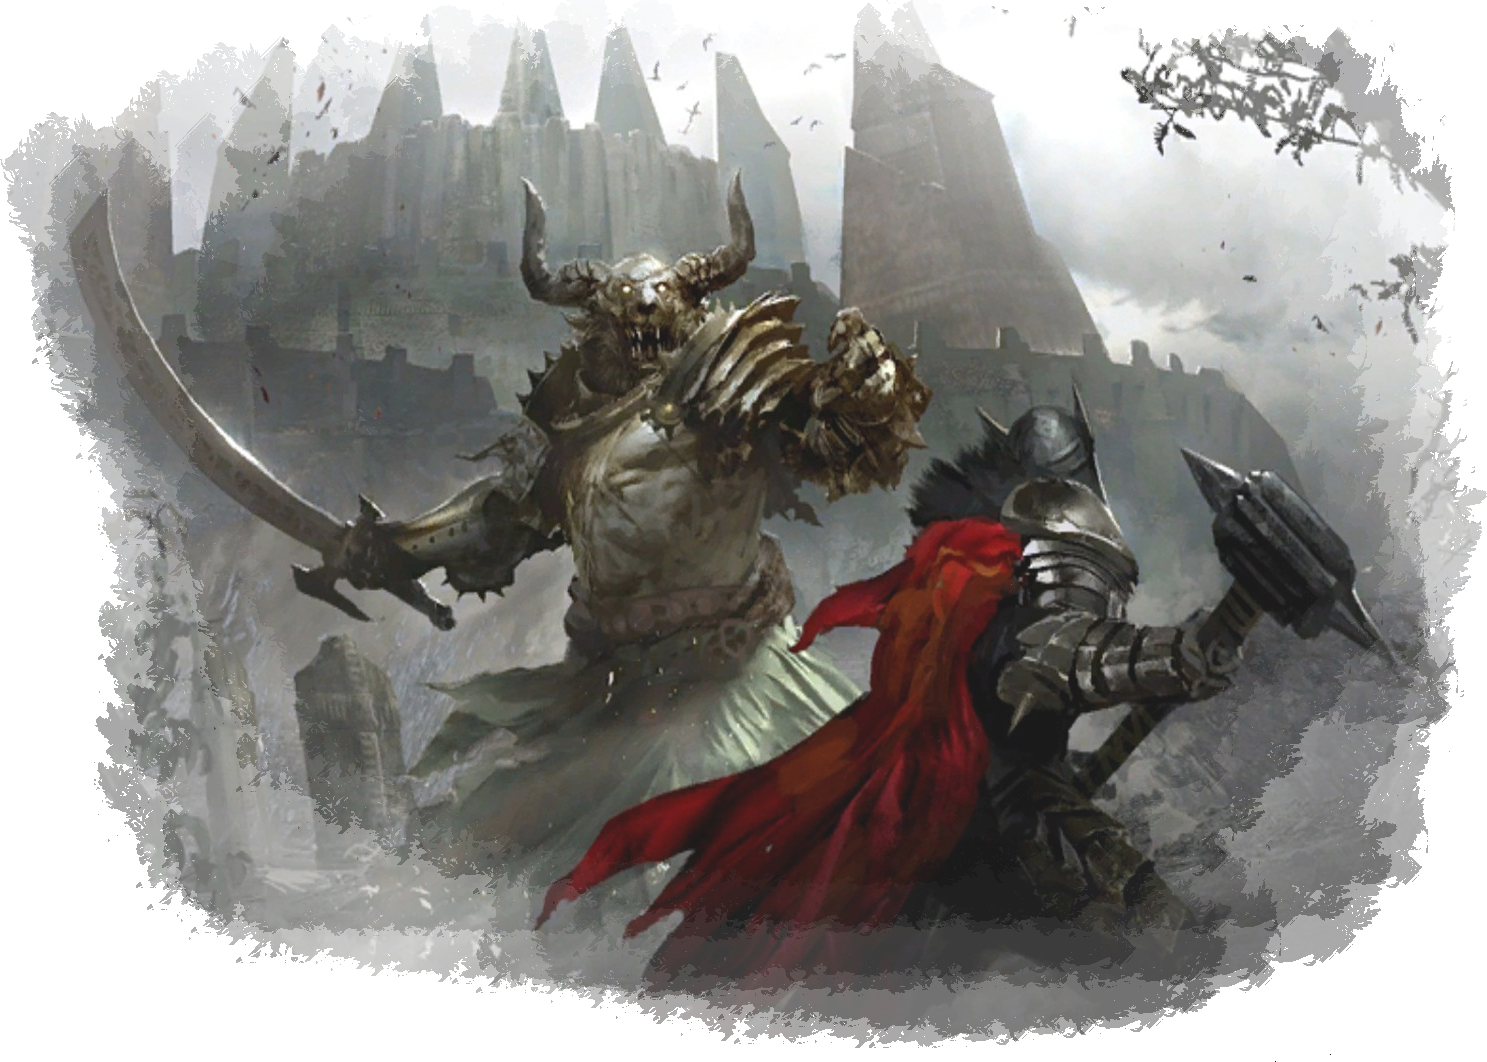
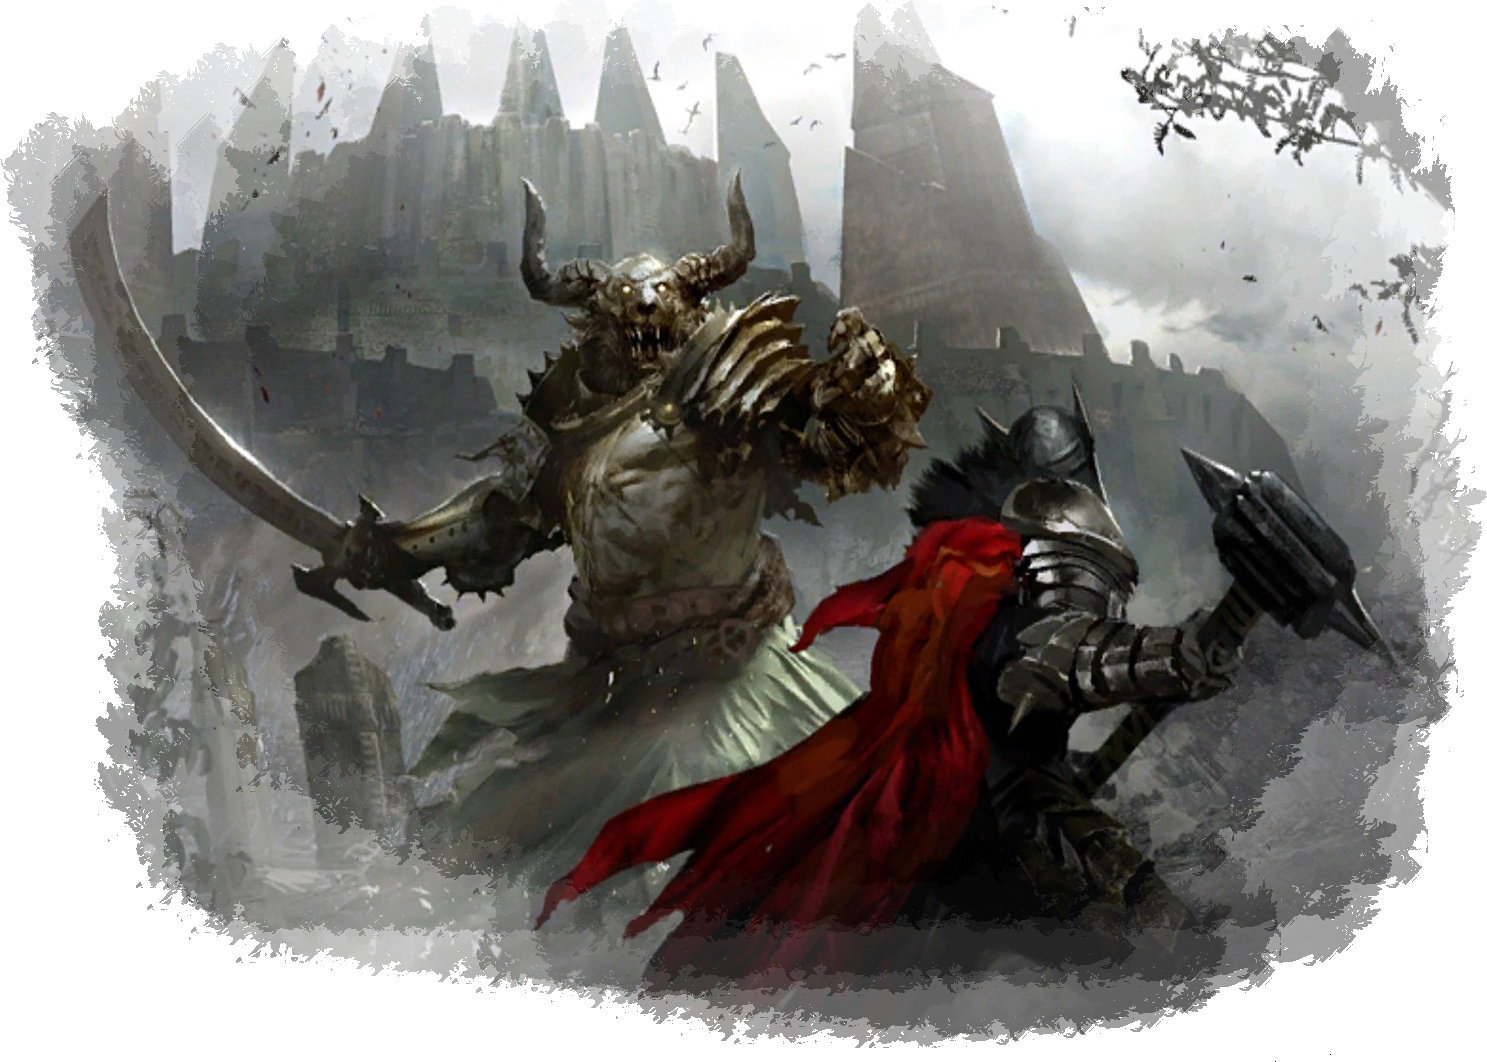
improve borders

diff --git a/src/App/App.css b/src/App/App.css
@@ -11,12 +11,25 @@
 .painted-box {
   background-color: rgba(255, 255, 255, 0.66);
   background-clip: padding-box;
-  border-width: 10px 50px;
+  border-width: 18px 13px 15px 12px;
   border-image-source: url("./borders_r_66opacity.png");
+  border-image-slice: 18 13 15 12 fill;
+  border-image-width: 18px 13px 15px 12px;
+  border-image-outset: 0px 0px 0px 0px;
+  border-image-repeat: round round;
+  border-style: solid;
+  padding: 0.1rem 0.5rem;
+}
+
+.painted-line {
+  background-color: rgba(255, 255, 255, 0.66);
+  background-clip: padding-box;
+  border-width: 10px 50px;
+  border-image-source: url("./borders_66opacity.png");
   border-image-slice: 18 130 17 137 fill;
   border-image-width: 10px 50px 10px 50px;
   border-image-outset: 0px 0px 0px 0px;
-  border-image-repeat: round round;
+  border-image-repeat: round stretch;
   border-style: solid;
   padding: 0.1rem 0.5rem;
 }

diff --git a/src/App/Header.tsx b/src/App/Header.tsx
@@ -8,7 +8,7 @@ function Header() {
 
   return (
     <div className="header" data-tauri-drag-region>
-      <div className="header-title painted-box" data-tauri-drag-region>
+      <div className="header-title painted-line" data-tauri-drag-region>
         {season ? season.name : "PvP Pips Calculator"}
       </div>
       <div className="header-actions">

diff --git a/src/service/localData.ts b/src/service/localData.ts
@@ -23,7 +23,12 @@ const defaultConfig: Config = {
   version: 1,
   apiKey: "",
   holidays: [],
-  goals: [],
+  goals: [
+    {
+      title: "All chests",
+      value: 670,
+    },
+  ],
 };
 
 const readConfig$ = () =>

diff --git a/src/App/CreateGoal.css b/src/App/CreateGoal.css
@@ -13,6 +13,13 @@
   vertical-align: middle;
 }
 
+.create-goal {
+  overflow: auto;
+}
+.create-goal::-webkit-scrollbar {
+  display: none;
+}
+
 .create-goal .rewards {
   list-style: none;
   margin: 0;

diff --git a/src/App/Result.css b/src/App/Result.css
@@ -5,7 +5,7 @@
   justify-content: center;
   overflow: auto;
   flex: 1 1 auto;
-  padding: 0 5rem;
+  padding: 0 8rem;
   padding-bottom: 5rem;
   mask: linear-gradient(
     0deg,
